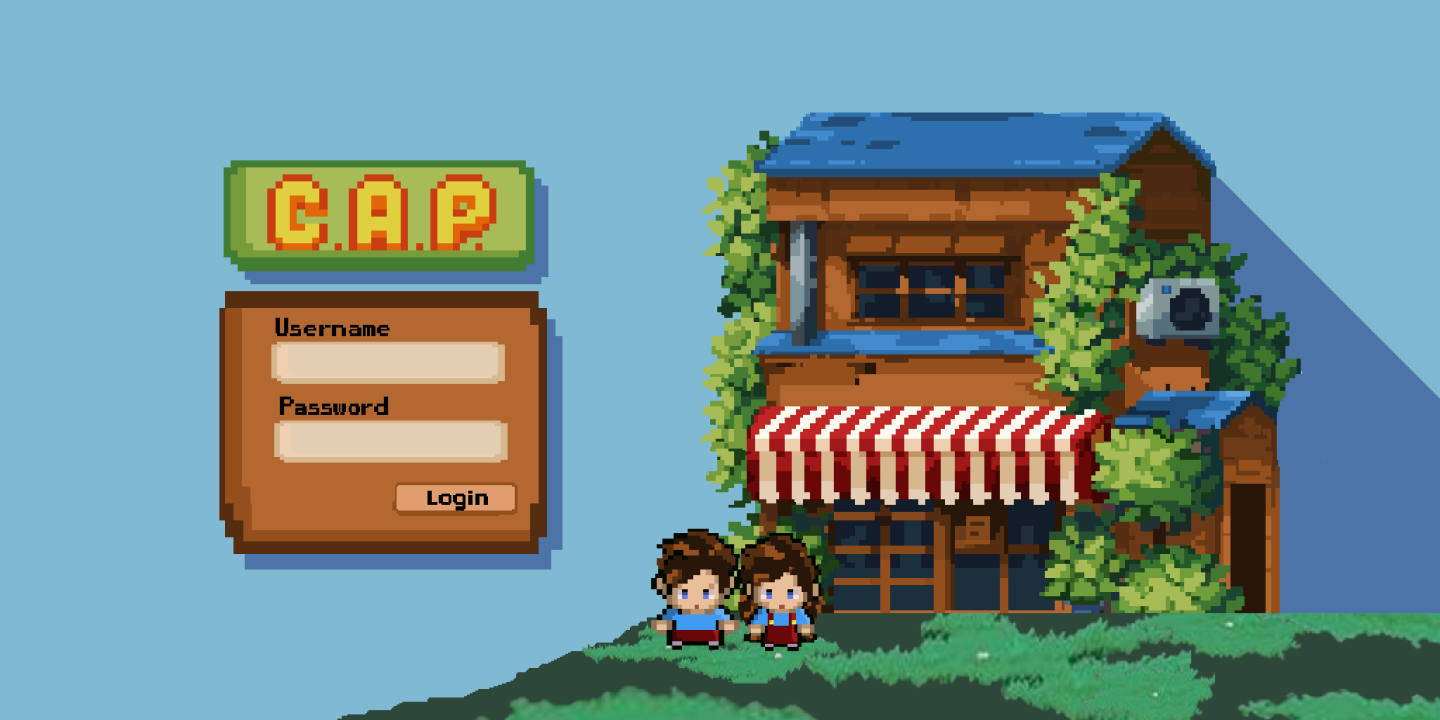
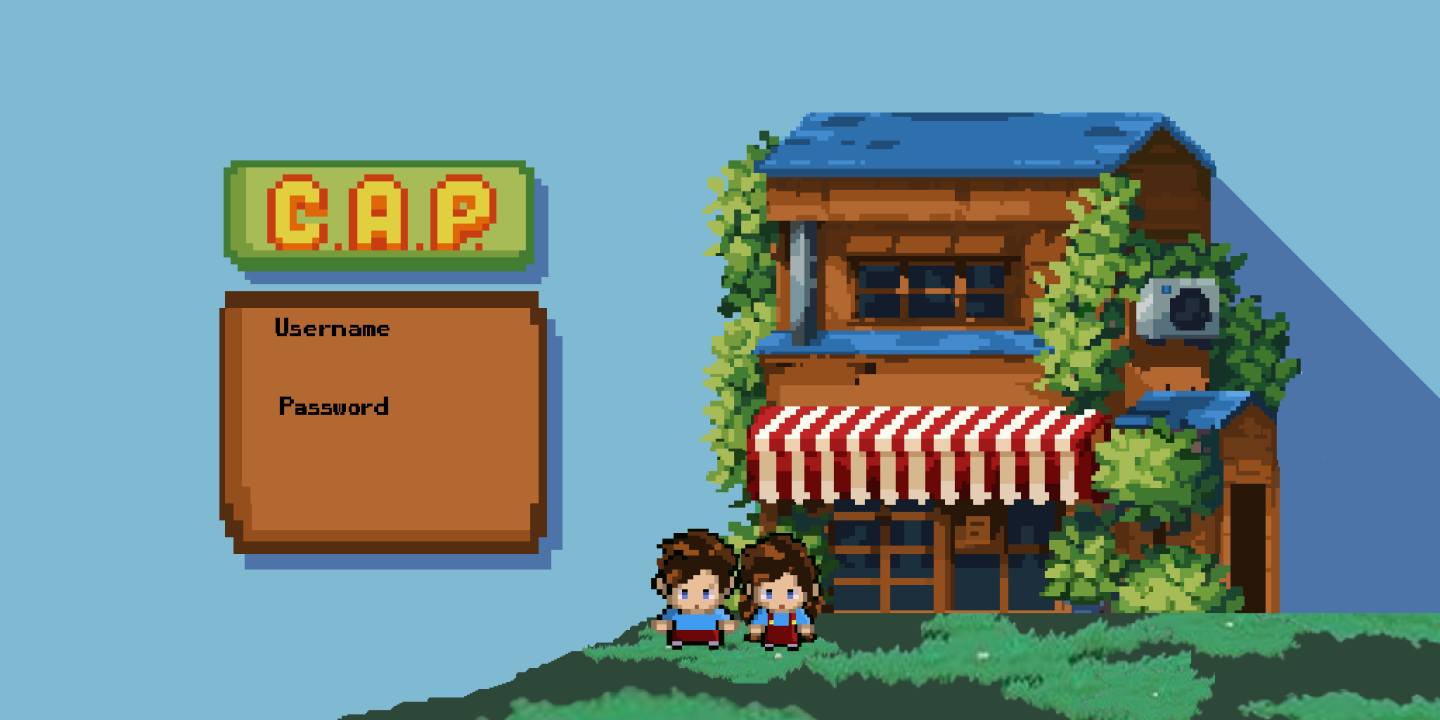
bad finish

Changed region(s): [[0.1875, 0.4583, 0.375, 0.55], [0.1875, 0.5806, 0.375, 0.6417], [0.25, 0.6722, 0.375, 0.7333]]

diff --git a/cap/main/templates/main/login.html b/cap/main/templates/main/login.html
@@ -23,7 +23,7 @@
 			margin-top: 20px;
 			position: fixed;
             top: 418px;
-			left: 500px;
+			left: 515px;
 			
 		}
 
@@ -31,7 +31,7 @@
 			margin-top: 20px;
 			position: fixed;
             top: 655px;
-			left: 500px;
+			left: 515px;
 			
 		}
 
@@ -39,8 +39,35 @@
 			margin-top: 20px;
 			position: fixed;
             top: 495px;
-			left: 500px;
+			left: 515px;
 			
+		}
+
+		.buttonas{
+			background: url("{% static 'main/images/empty-button.png' %}");
+            background-repeat: no-repeat;
+            cursor:pointer;
+			width: 150px;
+            height: 40px;
+			border: none;
+
+			position: fixed;
+            top: 560px;
+			left: 500px;
+		}
+
+		#login{
+			background: none;
+			color: inherit;
+			border: none;
+			padding: 0;
+			font: inherit;
+			cursor: pointer;
+			outline: inherit;
+			position:fixed;
+			top: 572px;
+			left:555px;
+			font-weight: bold;
 		}
 
 		.field{
@@ -111,10 +138,9 @@
 								<input type="password" name="password" placeholder="Password..." class="field" >
 						</div>
 
-							<div class="d-flex mt-3 login_container">
-				 				<input class="btn login_btn" type="submit" value="Login">
+							<div class="buttonas">
+				 				<input id="login"  type="submit" value="Login">
 				   			</div>
-
 						</div>
 
 					</form>

diff --git a/cap/main/templates/main/room.html b/cap/main/templates/main/room.html
@@ -121,7 +121,6 @@
         <INPUT type="submit" id="saldytuvas" value="">
         <INPUT type="submit" id="character" value="">
         <input type="button" id="langas" onclick="location.href='../logout';" />
-
     </div>
 
   
